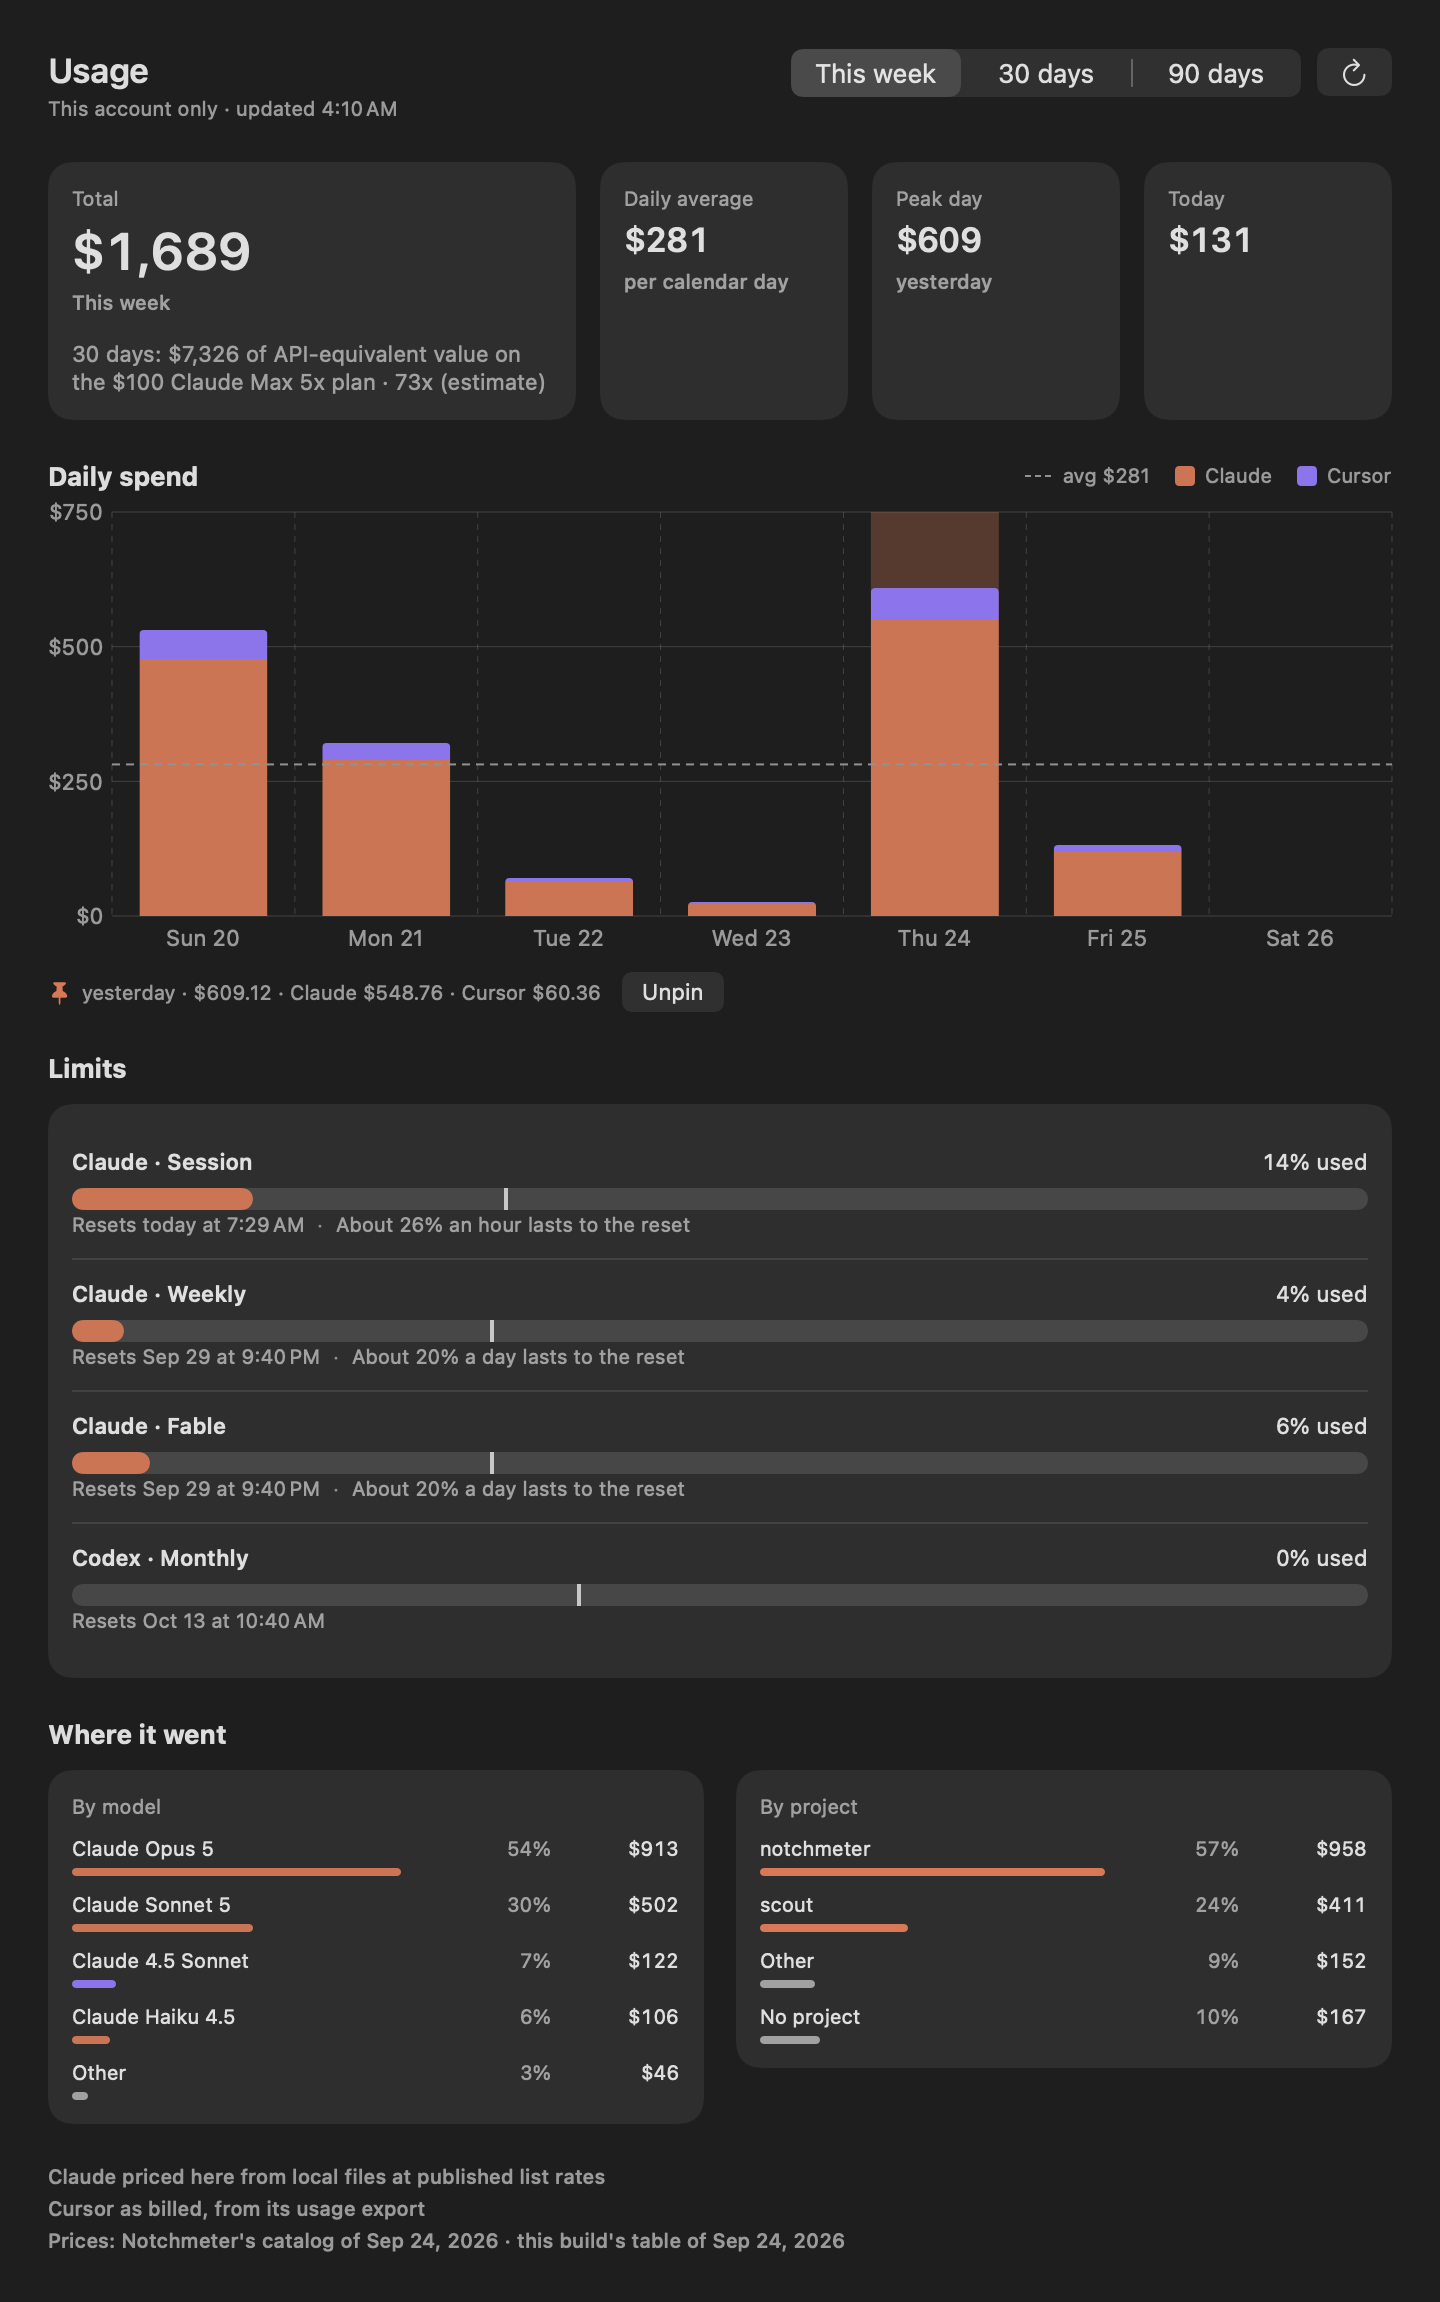
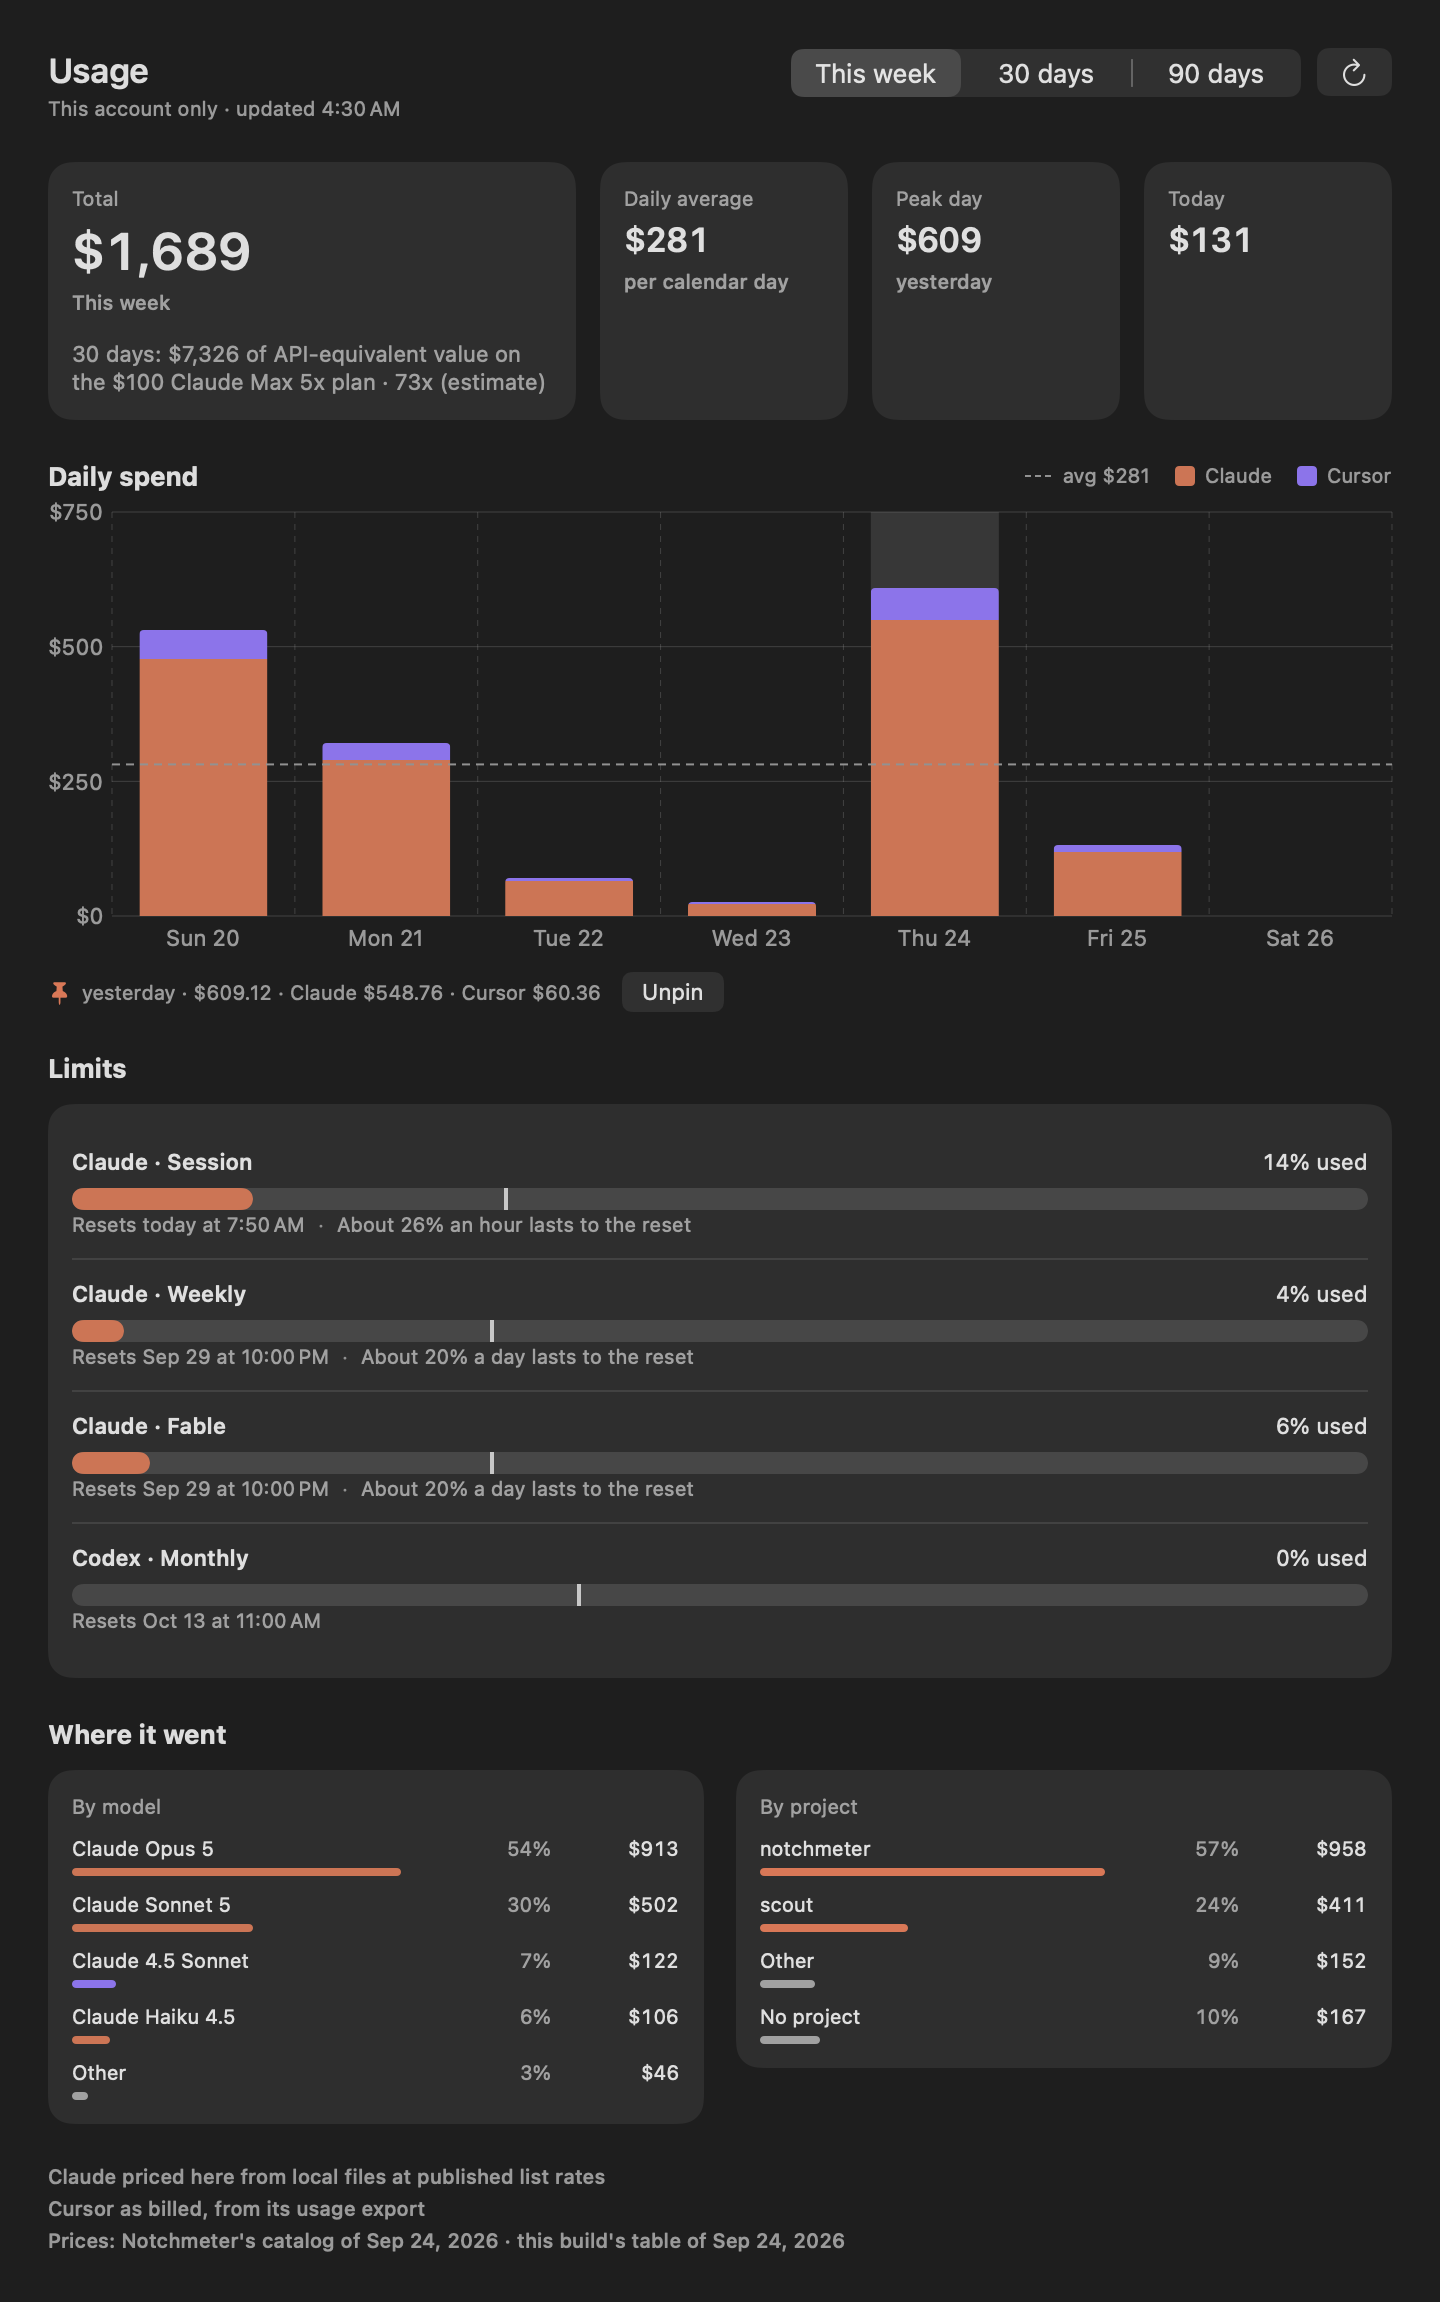
Dashboard: the kept day's band in the ink, not the accent; the release checks brew by version and keeps a ledger
The band behind the chart's chosen day was the accent, which by default is terracotta, Claude's own series colour, so
a pinned day's column above its bar read as another stacked segment of spend reaching the top of the chart. It is the
secondary ink now; the accent pin under the chart still marks a kept day, and the notes say so.

The release procedure's Homebrew step starts the tap's own bump workflow and verifies `brew list --cask --versions`
names the version, because `brew upgrade` exiting cleanly is how the release Mac stayed on 0.7.8 through 0.7.9. Its
record step names the ledger, docs/release-state.md in notchmeter-internal. docs/release.md says the same.

Claude-Session: https://claude.ai/code/session_01XbqdrwMrwJ3enjCnoUf2M8

diff --git a/Sources/Notchmeter/Dashboard.swift b/Sources/Notchmeter/Dashboard.swift
@@ -315,7 +315,7 @@ enum DashboardLook {
     /// choose it (the Cost card's range control, the line that says a session is waiting).
     static func accentInk(contrast: Bool) -> PanelInk { contrast ? .accentContrast : .accent }
 
-    /// The accent as a mark on the window: the project bars and the band over the chart's chosen day.
+    /// The accent as a mark on the window: the project bars and the pin under the chart.
     static func accent(dark: Bool, accent: PanelAccent, contrast: Bool) -> RGB {
         look(dark: dark, accent: accent, contrast: contrast).rgb(accentInk(contrast: contrast), role: .mark)
     }
@@ -485,7 +485,7 @@ struct DashboardView: View {
             } else {
                 if !model.isEmpty {
                     hero(DashboardHero(model: model, valueLine: store.planValueLine(for: range.costRange)))
-                    chartSection(model, accent: accent, ink: ink, pinMark: DashboardLook.pin(dark: dark, accent: store.prefs.panelAccent, contrast: contrast).color)
+                    chartSection(model, ink: ink, pinMark: DashboardLook.pin(dark: dark, accent: store.prefs.panelAccent, contrast: contrast).color)
                 }
                 if !limits.isEmpty { limitsSection(limits, dark: dark, contrast: contrast) }
                 if !model.isEmpty { breakdownSection(model, accent: accent) }
@@ -623,7 +623,7 @@ struct DashboardView: View {
 
     // MARK: Chart
 
-    private func chartSection(_ model: DashboardModel, accent: Color, ink: Color, pinMark: Color) -> some View {
+    private func chartSection(_ model: DashboardModel, ink: Color, pinMark: Color) -> some View {
         let shown = model.day(selection.shown, calendar: selection.calendar)
         return VStack(alignment: .leading, spacing: 10) {
             HStack {
@@ -643,7 +643,7 @@ struct DashboardView: View {
             }
             // Rebuilt per range: Swift Charts in this hosting view kept drawing the previous range's marks and scale
             // until the window was resized, while the tiles above had already moved on.
-            DailySpendChart(model: model, shown: shown, pinned: selection.isPinned, accent: accent, ink: ink, calendar: selection.calendar,
+            DailySpendChart(model: model, shown: shown, pinned: selection.isPinned, ink: ink, calendar: selection.calendar,
                             hover: { day, inside in selection.hover(day, inside: inside) }, click: click)
                 .id(range)
                 .frame(height: 220)
@@ -782,9 +782,11 @@ private struct Line: Shape {
     }
 }
 
-/// Stacked daily bars, one colour per assistant, a dashed line at the daily average, and a band in the accent over
-/// the day whose figures are under the chart, stronger while that day is pinned. The band is the only mark of the
-/// day: the other days' bars keep their colour, since dimming them (as a hover once did) put six of seven bars
+/// Stacked daily bars, one colour per assistant, a dashed line at the daily average, and a band in the secondary ink
+/// over the day whose figures are under the chart, stronger while that day is pinned. The band is neutral on purpose:
+/// in the accent it was the default terracotta, Claude's own series colour, so the part of a pinned day's column
+/// above its bar read as another stacked segment of spend reaching the top of the chart. The band is the only mark
+/// of the day: the other days' bars keep their colour, since dimming them (as a hover once did) put six of seven bars
 /// under 3:1 on either window and off the legend's swatches for as long as a pin held. The bars, the band and the
 /// rule say nothing to VoiceOver: an invisible element over each day's slot speaks for them (the day, the total,
 /// the split) and takes the hover and the click, so what a pointer can pin a VoiceOver reader can pin too, and no
@@ -793,7 +795,6 @@ private struct DailySpendChart: View {
     let model: DashboardModel
     let shown: DashboardModel.Day?
     let pinned: Bool
-    let accent: Color
     /// The secondary ink as a colour, for the average's rule and, faintly, the grid.
     let ink: Color
     let calendar: Calendar
@@ -821,7 +822,7 @@ private struct DailySpendChart: View {
             if let shown {
                 // First, so it lies under the bars. Hidden from VoiceOver like the bars: the day's slot speaks for it.
                 RectangleMark(x: .value(L("Day"), shown.day, unit: .day))
-                    .foregroundStyle(accent.opacity(pinned ? 0.3 : 0.16))
+                    .foregroundStyle(ink.opacity(pinned ? 0.22 : 0.12))
                     .accessibilityHidden(true)
             }
             ForEach(model.bars) { bar in

diff --git a/Tests/NotchmeterTests/DashboardTests.swift b/Tests/NotchmeterTests/DashboardTests.swift
@@ -280,7 +280,7 @@ import Testing
 }
 
 /// How the dashboard presents its figures: the hero's wording, which assistant a model row is coloured for, the
-/// accent the project rows and the chart's band take (the theme's, never the system's), and the pin under the chart.
+/// accent the project rows take (the theme's, never the system's), and the pin under the chart.
 @Suite struct DashboardPresentation {
     init() { Localization.use(language: "en") }
 

diff --git a/.claude/skills/release/SKILL.md b/.claude/skills/release/SKILL.md
@@ -168,24 +168,36 @@ release, so this is the moment installed copies begin to see the update.
 
 ### 8. Homebrew
 
-The tap is what users install from; this repository's copy is not.
+The tap is what users install from; this repository's copy is not. `Amir-Hackett/homebrew-tap` points its cask at the
+latest promoted release on its own (`.github/workflows/bump-notchmeter.yml`, every 30 minutes), so this step starts
+that now, keeps this repository's copy in step, and proves the result on this Mac.
 
 ```bash
 shasum -a 256 /tmp/nm-verify/Notchmeter.dmg
+gh workflow run bump-notchmeter.yml -R Amir-Hackett/homebrew-tap
+gh run watch "$(gh run list -R Amir-Hackett/homebrew-tap --workflow=bump-notchmeter.yml --limit 1 --json databaseId -q '.[0].databaseId')"
 ```
 
-Update `version` and `sha256` in `packaging/homebrew/notchmeter.rb`, commit, then copy that file to
-`Casks/notchmeter.rb` in `Amir-Hackett/homebrew-tap` and push there. Verify:
+Its log says `latest $VERSION, cask at <old>` and commits `notchmeter $VERSION`, or `cask at $VERSION` if it already
+ran. Then update `version` and `sha256` in `packaging/homebrew/notchmeter.rb` to the same two values and merge that as
+`point the cask at $VERSION`. Verify by version, not by the upgrade's exit status:
 
 ```bash
 brew update && brew upgrade --cask notchmeter
+brew list --cask --versions notchmeter        # must print notchmeter $VERSION
 ```
+
+An upgrade that prints nothing is not a pass. 0.7.9's cask reached the tap but this Mac stayed on 0.7.8 until 0.9.0,
+because the check was `brew upgrade` succeeding rather than the installed version. If `brew` still names the old
+version, the tap did not take the bump: read `Casks/notchmeter.rb` on the tap's `main`.
 
 ### 9. Record it
 
-Update the state row in the project's notes with the version, that it was installed from the DMG and launched
-before being promoted, and anything that went wrong. Then report to the user: version, release URL, what the
-launch check showed, feed confirmed, cask updated.
+Add the release's row at the top of the table in `docs/release-state.md` in the private `Amir-Hackett/notchmeter-internal`
+repository: version, the commit the tag is on, the date promoted, whether it was installed from the DMG and launched
+before promotion (and what the launch check showed), the tap commit, and anything that went wrong with what was changed
+because of it, however small. The next release reads that table first. Then report to the user: version, release URL,
+what the launch check showed, feed confirmed, cask updated and the version `brew list` printed.
 
 ## When a release is already tagged and you are asked to finish it
 

diff --git a/docs/release.md b/docs/release.md
@@ -287,7 +287,8 @@ of `.github/workflows/secrets.yml` on every push, so it is known before a tag, n
    A tagged prerelease nobody promoted costs nothing. `.claude/skills/release/SKILL.md` runs this whole procedure.
 5. Confirm the feed moved: `curl -fsSL <feed> | grep sparkle:version`. Installed copies check once a day
    (`SUScheduledCheckInterval` 86400) and on *Options → Check for Updates…*.
-6. Update `packaging/homebrew/notchmeter.rb` with the version and the DMG's sha256 (the script prints it; on path a it is in the job summary), then copy the file to `Casks/notchmeter.rb` in `Amir-Hackett/homebrew-tap` and push. `brew upgrade --cask notchmeter` should then report the new version; the tap is what users install from, not this repository's copy.
+6. The tap follows on its own: `Amir-Hackett/homebrew-tap` runs `bump-notchmeter.yml` every 30 minutes, reads the latest promoted release, downloads its DMG and points `Casks/notchmeter.rb` at its version and sha256; a prerelease never reaches it, because `releases/latest` never resolves to one. Start it at once with `gh workflow run bump-notchmeter.yml -R Amir-Hackett/homebrew-tap`, and give `packaging/homebrew/notchmeter.rb` the same version and sha256 (the script prints the sum; on path a it is in the job summary). Then `brew update && brew upgrade --cask notchmeter` and check `brew list --cask --versions notchmeter` names the new version: an upgrade that exits cleanly proves nothing on its own, which is how this Mac stayed on 0.7.8 through the 0.7.9 release. The tap is what users install from, not this repository's copy.
+7. Add the release's row to `docs/release-state.md` in the private `Amir-Hackett/notchmeter-internal` repository: the tag's commit, the date promoted, whether it was launched from /Applications before promotion, the tap commit, and what went wrong.
 
 ### Verifying on a clean Mac
 

diff --git a/CHANGELOG.md b/CHANGELOG.md
@@ -7,7 +7,7 @@ Every released version of Notchmeter, newest first. From 0.7.0 each section is t
 ### The Usage Dashboard, redrawn
 
 - **The total leads.** The range's total is the largest figure in the window, with the range under it and the value line in the same card: "30 days: $412 of API-equivalent value on the $200 Claude Max 20x plan · 2.1x (estimate)", still marked the estimate it is. Daily average, peak day and today sit beside it, and move under it when the window is narrow.
-- **The panel's colours, in place of the system blue.** Spend by model is drawn in each assistant's colour, and spend by project and the marker on the chart in the accent chosen under Settings › Appearance › Theme, resolved the way the panel resolves it, under Increase Contrast too. Nothing in the window takes the system accent any more.
+- **The panel's colours, in place of the system blue.** Spend by model is drawn in each assistant's colour, and spend by project and the pin on a kept day in the accent chosen under Settings › Appearance › Theme, resolved the way the panel resolves it, under Increase Contrast too. Nothing in the window takes the system accent any more.
 - **The panel's meters for the limits.** Every live limit is drawn on the meter the panel uses, with its pace tick and how much a day (or an hour, for the session window) lasts to the reset. The cards and captions are the panel's as well. The window follows the system appearance, light or dark, and both were measured for contrast.
 - **Click a day to keep it.** Resting the pointer on a bar names that day under the chart, as before; a click keeps the day's figures there while you read the rest. A second click, Escape or *Unpin* lets it go. VoiceOver reads each day's bar as one element, with its total and its split by assistant, and pins it the same way.
 

diff --git a/docs/release-notes/0.9.1.md b/docs/release-notes/0.9.1.md
@@ -3,7 +3,7 @@
 ### The Usage Dashboard, redrawn
 
 - **The total leads.** The range's total is the largest figure in the window, with the range under it and the value line in the same card: "30 days: $412 of API-equivalent value on the $200 Claude Max 20x plan · 2.1x (estimate)", still marked the estimate it is. Daily average, peak day and today sit beside it, and move under it when the window is narrow.
-- **The panel's colours, in place of the system blue.** Spend by model is drawn in each assistant's colour, and spend by project and the marker on the chart in the accent chosen under Settings › Appearance › Theme, resolved the way the panel resolves it, under Increase Contrast too. Nothing in the window takes the system accent any more.
+- **The panel's colours, in place of the system blue.** Spend by model is drawn in each assistant's colour, and spend by project and the pin on a kept day in the accent chosen under Settings › Appearance › Theme, resolved the way the panel resolves it, under Increase Contrast too. Nothing in the window takes the system accent any more.
 - **The panel's meters for the limits.** Every live limit is drawn on the meter the panel uses, with its pace tick and how much a day (or an hour, for the session window) lasts to the reset. The cards and captions are the panel's as well. The window follows the system appearance, light or dark, and both were measured for contrast.
 - **Click a day to keep it.** Resting the pointer on a bar names that day under the chart, as before; a click keeps the day's figures there while you read the rest. A second click, Escape or *Unpin* lets it go. VoiceOver reads each day's bar as one element, with its total and its split by assistant, and pins it the same way.
 
